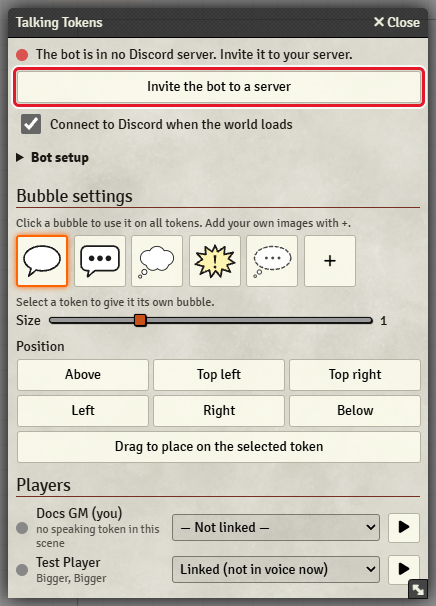
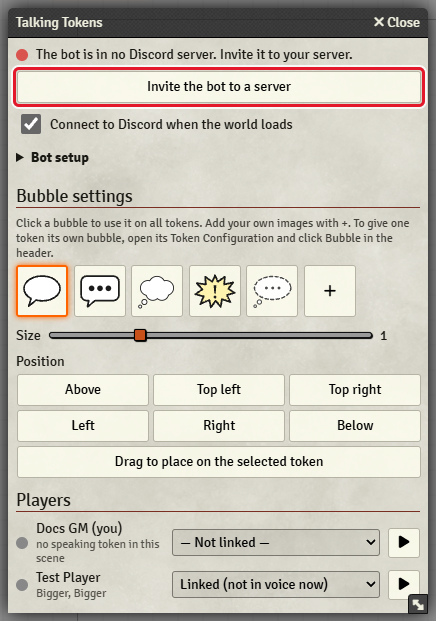
Move the token bubble choice to the Token Config header
The bubble of one token belongs to the token, not to the module
panel. A "Bubble" button in the header of the Token Configuration
(GM only, tokens on a scene) opens a small window for that token. It
shows an "All tokens" tile with the current default, and every
bubble of the library. A click saves at once, and an orange frame
marks the choice. The window follows changes of the token, the
library, and the default, and closes when the token is deleted.

The select for the selected token leaves the panel, and so does the
controlToken refresh. The panel hint says where the token bubble is
now. v11 uses getTokenConfigHeaderButtons; v13 uses
getHeaderControlsTokenConfig.

Changed region(s): [[0.0298, 0.297, 0.9839, 0.9802], [0.0298, 0.0297, 0.9839, 0.2673], [0.0298, 0.8614, 0.0596, 0.8911]]

diff --git a/module/styles/talking-tokens.css b/module/styles/talking-tokens.css
@@ -174,8 +174,9 @@
   margin: 0;
 }
 
-/* The default bubble: the same orange as an active HUD control. */
-.talking-tokens .tt-bubble.is-default {
+/* The chosen bubble (the default in the panel, the token's choice in its window): the orange of an active HUD control. */
+.talking-tokens .tt-bubble.is-default,
+.talking-tokens .tt-bubble.is-selected {
   border: 2px solid var(--color-border-highlight, #ff6400);
   box-shadow: 0 0 6px var(--color-shadow-highlight, #ff6400);
 }
@@ -204,12 +205,20 @@
   gap: 0.5rem;
 }
 
-.talking-tokens .tt-token-bubble {
-  display: grid;
-  grid-template-columns: auto 1fr;
-  align-items: center;
-  gap: 0.5rem;
-  margin-bottom: 0.25rem;
+/* The bubble window of one token: the first tile is "the bubble for all tokens", with a caption. */
+.talking-tokens .tt-bubble-default {
+  flex-direction: column;
+  width: 4.5rem;
+  gap: 0.1rem;
+}
+
+.talking-tokens .tt-bubble-default img {
+  max-height: 1.8rem;
+}
+
+.talking-tokens .tt-bubble-caption {
+  font-size: var(--font-size-11, 11px);
+  line-height: 1;
 }
 
 .talking-tokens .tt-test {

diff --git a/README.md b/README.md
@@ -161,8 +161,14 @@ Open the panel. All settings under **Bubble settings** apply to every user at on
 - Click a bubble to use it on all tokens. The bubble in use has an orange frame.
 - Click **+** to add your own image (PNG, WebP, or SVG with a transparent background works best). Click the small
   **×** on an image to remove it from the list.
-- To give one token its own bubble, select the token on the map. Then pick a bubble in **Bubble of** (followed by the token name). Pick
-  "The bubble for all tokens" to undo this.
+- To give one token its own bubble, open the token's configuration (double-click the token, or right-click it and
+  click the gear). Click **Bubble** in the window header.
+
+  ![The Bubble button in the Token Configuration header](docs/images/token-config-bubble-button.png)
+
+  Click a bubble. The choice saves at once. Click **All tokens** to undo this.
+
+  ![The bubble window of one token](docs/images/token-bubble-window.png)
 - Drag the **Size** slider. Visible bubbles change size while you drag.
 - Click a **Position** button, or select a token and click **Drag to place on the selected token**. Drag the bubble,
   then click **Save position**.
